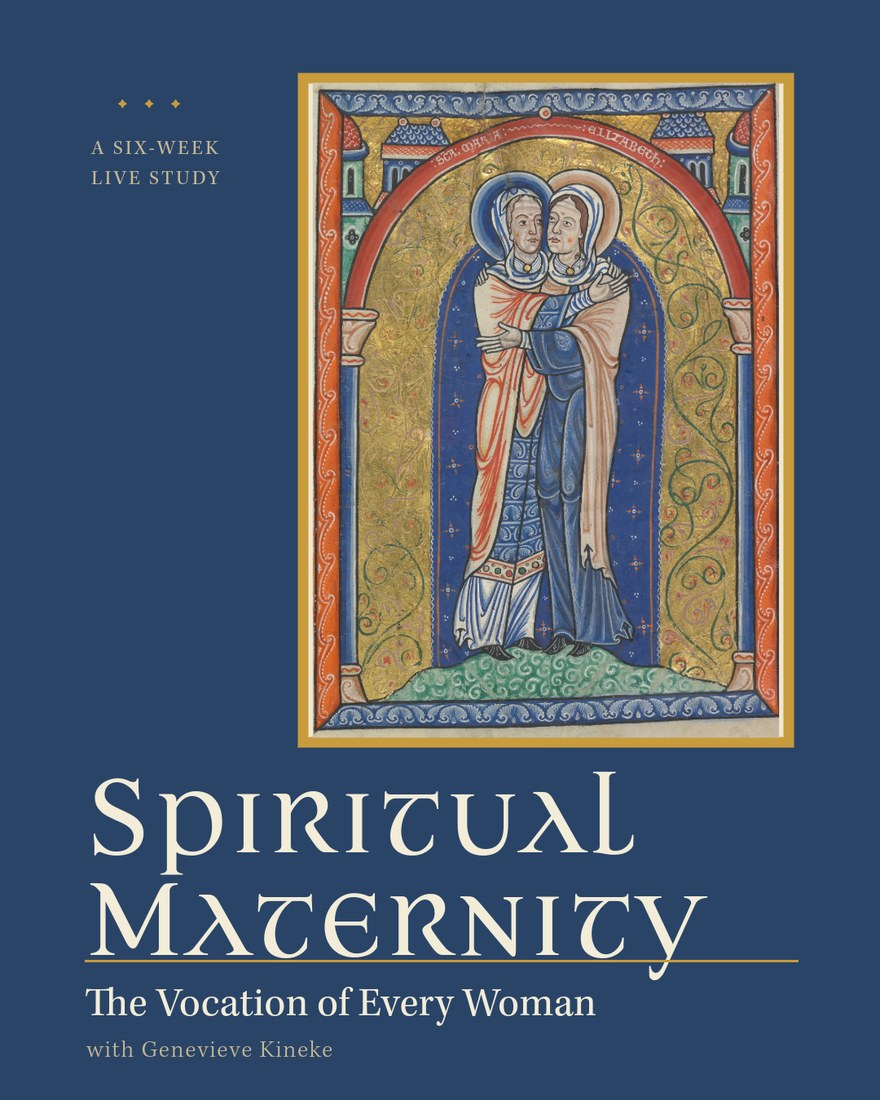
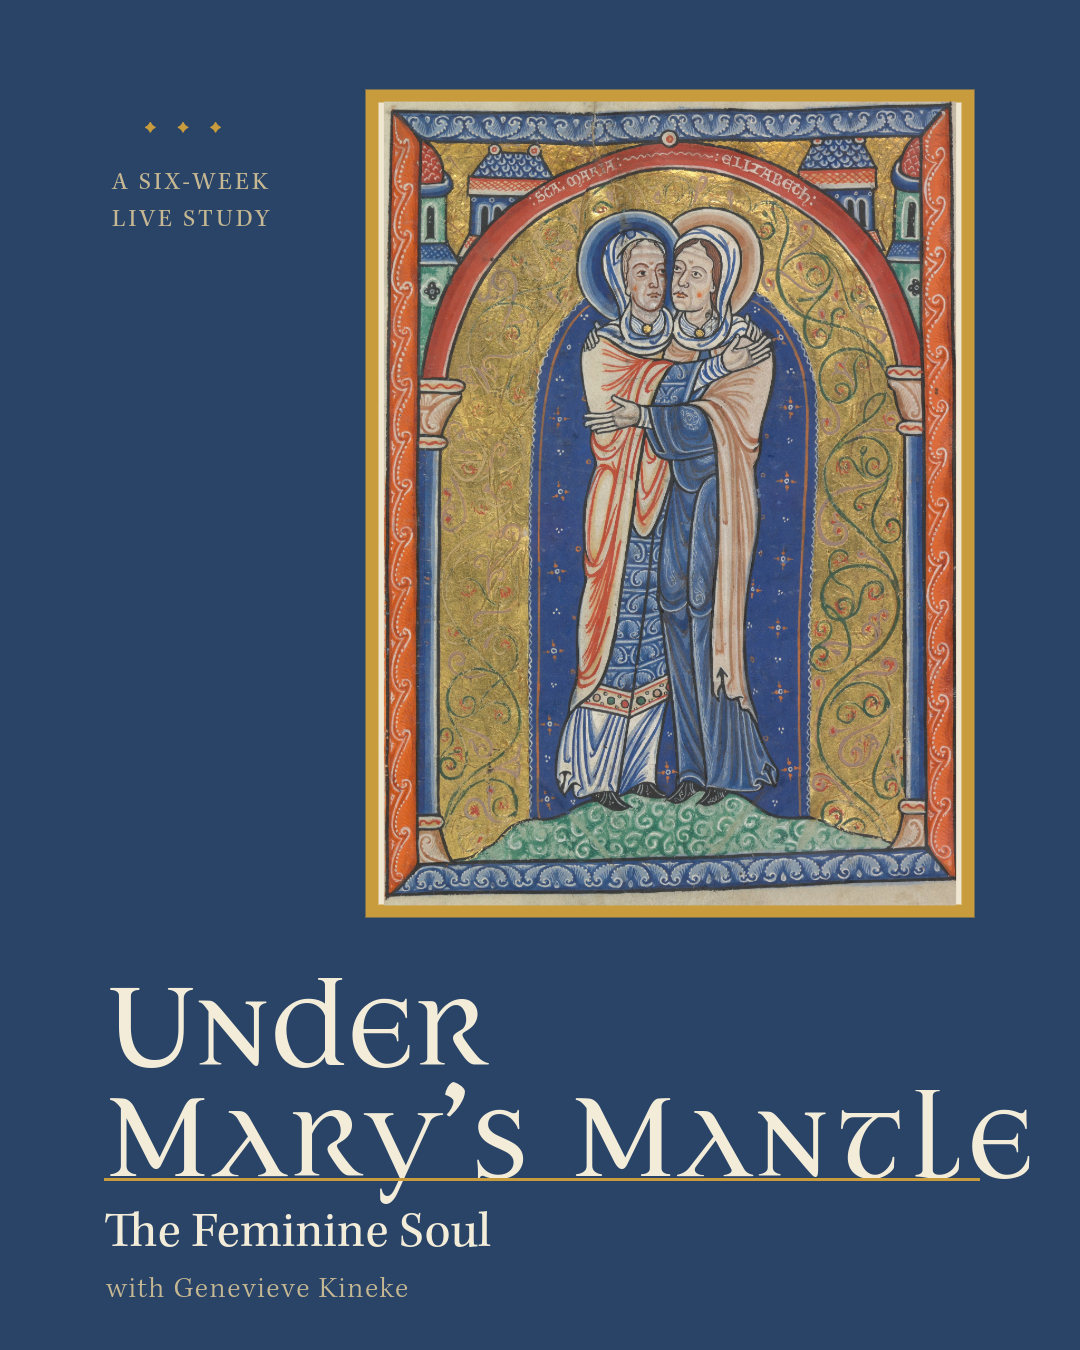
New course title: Under Mary's Mantle: The Feminine Soul; new cover, OG image tags

diff --git a/index.html b/index.html
@@ -3,12 +3,18 @@
 <head>
 <meta charset="UTF-8">
 <meta name="viewport" content="width=device-width, initial-scale=1.0">
-<title>Spiritual Maternity: The Vocation of Every Woman | A Six-Week Study with Genevieve Kineke</title>
-<meta name="description" content="A six-week live study with Genevieve Kineke on spiritual maternity: the vocation of every woman, whether or not she is a wife, a mother, or a religious sister. Thursdays, September 24 to October 29, 2026. Join the waitlist.">
+<title>Under Mary’s Mantle: The Feminine Soul | A Six-Week Study with Genevieve Kineke</title>
+<meta name="description" content="Under Mary’s Mantle: The Feminine Soul. A six-week live study with Genevieve Kineke on spiritual maternity, the vocation of every woman, whether or not she is a wife, a mother, or a religious sister. Thursdays, September 24 to October 29, 2026. Join the waitlist.">
 
-<meta property="og:title" content="Spiritual Maternity: The Vocation of Every Woman">
+<meta property="og:title" content="Under Mary’s Mantle: The Feminine Soul">
 <meta property="og:description" content="A six-week live study with Genevieve Kineke. Thursdays, September 24 to October 29. Join the waitlist.">
 <meta property="og:type" content="website">
+<meta property="og:image" content="https://sienafallsmedia.com/domusaurea/spiritual-maternity-waitlist/cover.jpg">
+<meta property="og:image:width" content="1080">
+<meta property="og:image:height" content="1350">
+<meta property="og:image:alt" content="Under Mary’s Mantle: The Feminine Soul, with Genevieve Kineke. The Visitation, from a twelfth-century Aquitaine psalter.">
+<meta property="og:url" content="https://sienafallsmedia.com/domusaurea/spiritual-maternity-waitlist/">
+<meta name="twitter:card" content="summary_large_image">
 
 <link rel="preconnect" href="https://fonts.googleapis.com">
 <link rel="preconnect" href="https://fonts.gstatic.com" crossorigin>
@@ -179,7 +185,17 @@ a.btn--primary, a.btn--primary:visited, a.btn--primary:hover { color: #fff; }
 .hero .wrap {
   display: grid; grid-template-columns: 1.15fr 1fr; gap: 3.5rem; align-items: center;
 }
-.hero__eyebrow { margin-bottom: 1.4rem; }
+.hero__eyebrow { margin-bottom: 0.9rem; }
+/* The course name in text, not only inside the cover image, so screen readers
+   and search engines can find it. */
+.hero__coursename {
+  font-family: var(--serif);
+  font-size: clamp(1.05rem, 1.8vw, 1.35rem);
+  font-weight: 400; font-style: italic;
+  letter-spacing: 0.01em; line-height: 1.4;
+  color: var(--meta); margin-bottom: 1.3rem;
+}
+.hero__coursename span { font-style: normal; font-weight: 500; letter-spacing: 0.02em; }
 .hero__title {
   font-family: var(--serif);
   font-size: clamp(2.1rem, 4.4vw, 3.6rem);
@@ -604,6 +620,7 @@ a.btn--primary, a.btn--primary:visited, a.btn--primary:hover { color: #fff; }
   <div class="wrap">
     <div class="hero__content">
       <p class="eyebrow hero__eyebrow">A Six-Week Live Study &middot; Thursdays This Fall</p>
+      <p class="hero__coursename"><span>Under Mary’s Mantle</span> &middot; The Feminine Soul</p>
       <h1 class="hero__title">Your vocation is to say <em>Yes to the Messiah with Mary.</em></h1>
       <p class="hero__sub">
         At heart, this is the role of the Christian. Single, married, divorced, or
@@ -623,8 +640,8 @@ a.btn--primary, a.btn--primary:visited, a.btn--primary:hover { color: #fff; }
 
     <div class="hero__image">
       <div>
-        <img src="cover.jpg" width="880" height="1100"
-             alt="Spiritual Maternity: The Vocation of Every Woman, a six-week live study with Genevieve Kineke. The Visitation, from a twelfth-century Aquitaine psalter.">
+        <img src="cover.jpg" width="1080" height="1350"
+             alt="Under Mary’s Mantle: The Feminine Soul, a six-week live study with Genevieve Kineke. The Visitation, from a twelfth-century Aquitaine psalter.">
       </div>
     </div>
   </div>
